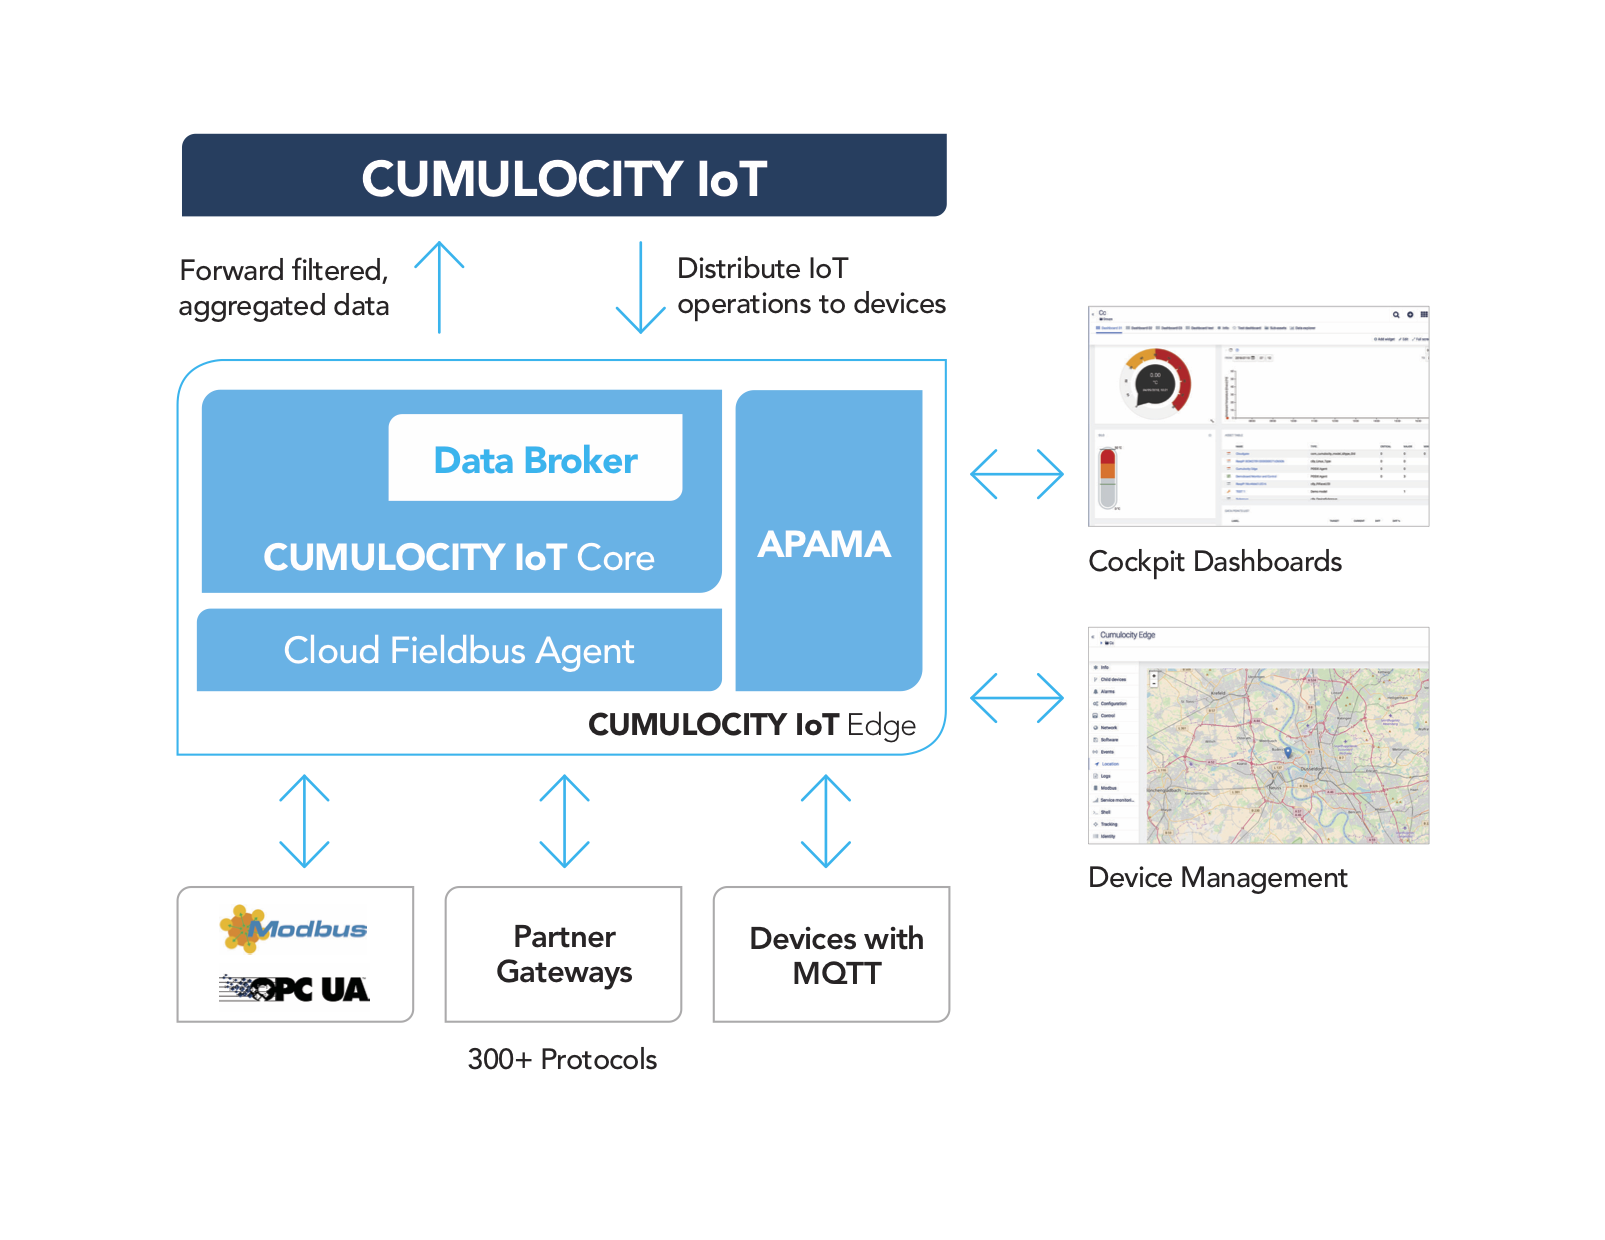
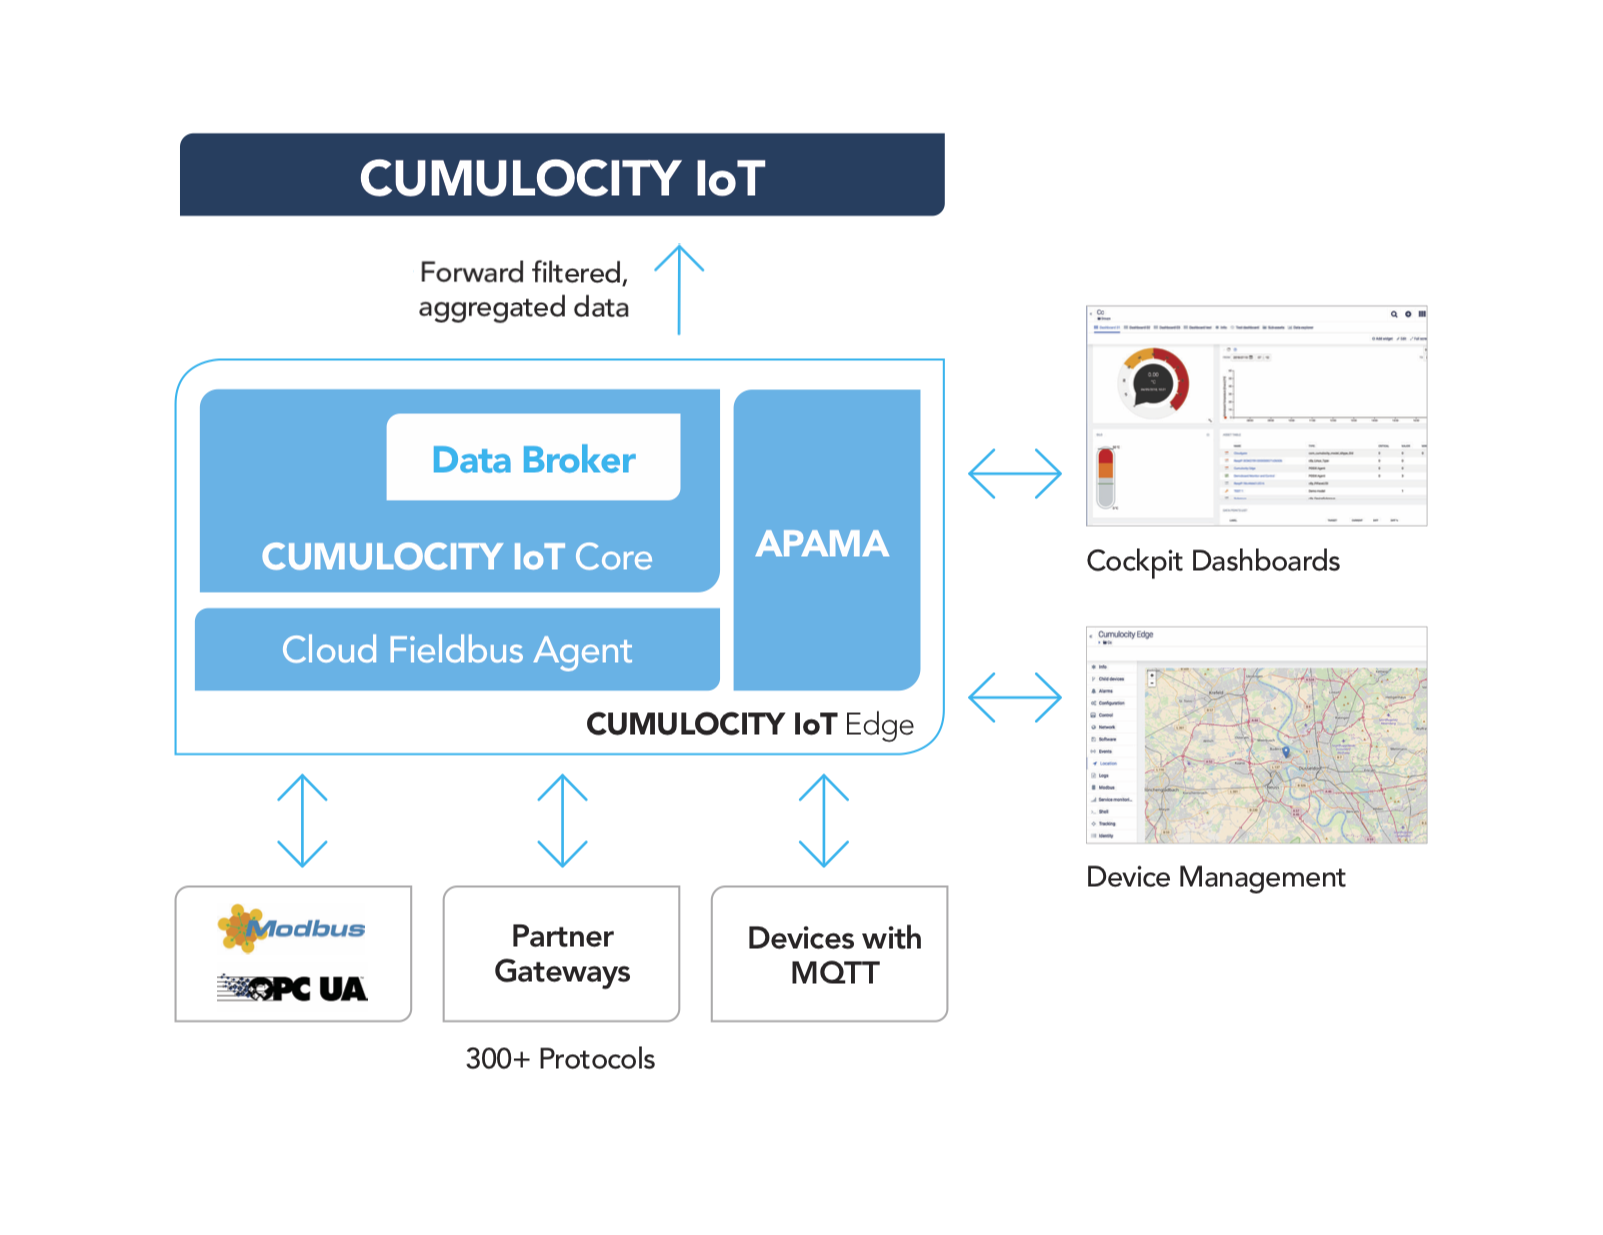
CIE-1568. Backporting Data Broker changes.
(cherry picked from commit 7192e5efb2e02b950e2579cb145418e47458cefb)

diff --git a/content/edge/usage-bundle/connecting-cloud.md b/content/edge/usage-bundle/connecting-cloud.md
@@ -49,7 +49,8 @@ You can share the following data:
 * events
 * alarms
 * measurements
-* operations
+
+>**Important**: Data Broker in Cumulocity IoT Edge does not support synchronization of the Operations.
 
 Go to **Data Broker** > **Data connectors** if you would like to send data to the tenant account. 
 
@@ -57,8 +58,6 @@ Go to **Data Broker** > **Data subscriptions** in your tenant account to receive
 
 <img src="/images/users-guide/data-broker-navigator.png" alt="Data broker menus">
 
-In the same way, you can push operations from a Cumulocity tenant account to Cumulocity IoT Edge devices.
- 
 For details about sending and receiving data in Cumulocity, see [Enterprise Tenant > Using the Data Broker](/users-guide/enterprise-edition#data-broker).
 
    
